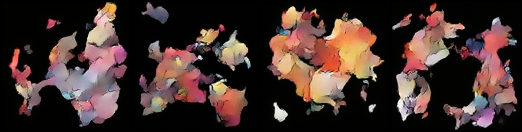
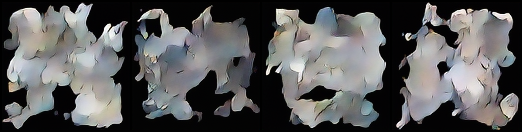
345 epochs

diff --git a/backend/train/sample_image.py b/backend/train/sample_image.py
@@ -49,7 +49,7 @@ def generate_samples(model_ckpt, output_dir="./samples", cond=None, num_images=4
     grid = vutils.make_grid(images, nrow=4, normalize=True, value_range=(-1, 1))
     output_path = os.path.join(output_dir, "generated_samples" + (suffix if suffix else "") + ".png")
     vutils.save_image(grid, output_path)
-    print(f"Saved samples to {os.path.join(output_dir, 'generated_samples.png')}")
+    print(f"Saved samples to {output_path}")
 
 if __name__ == "__main__":
     ROOT_DIR = os.path.abspath(os.path.join(os.path.dirname(__file__), ".."))
@@ -64,8 +64,9 @@ if __name__ == "__main__":
         use_descriptions=False,
     )
     conditions = {
-        "color": "blue",
-        "is_sprite": True,
+        "is_sprite": False,
+        "primary_type" : "leaf",
+        "is_legendary" : True
     }
 
 

diff --git a/README.md b/README.md
@@ -18,7 +18,7 @@ Current results for ~1750 Epoch on 1200 images with the unconditional DDPM
 
 ___
 ## Conditional generation with free guidance
-Current results for ~145 Epoch on 5883 images with the conditionnal DDPM (conditionnal encoding of dimension 42) 
+Current results for ~345 Epoch on 5883 images with the conditionnal DDPM (conditionnal encoding of dimension 42) 
 
 > On cosine scheduler
 > cond : color="red", is_sprite=False
